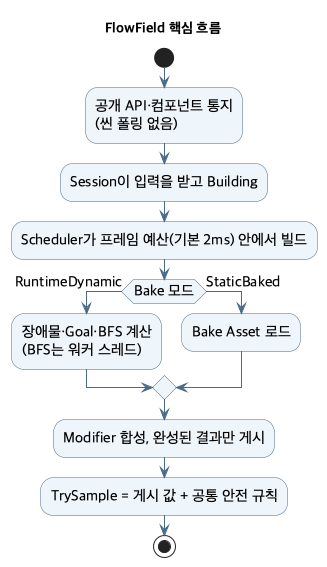
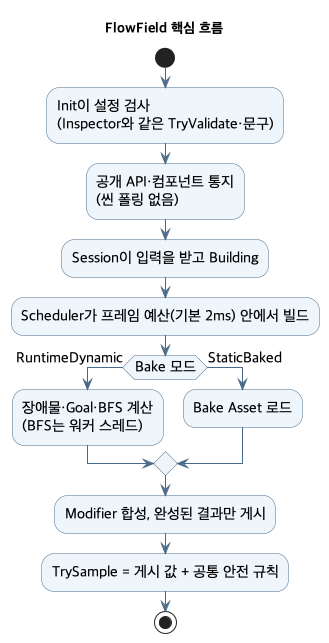
README·TechnicalNotes와 PlantUML 3개를 Session 소유 불확실 영역과 한 경로 검사에 맞추고 PNG를 다시 렌더링함

Changed region(s): [[0.0306, 0.03, 0.9786, 0.9894]]

diff --git a/ToyProject/Assets/_FlowField/Docs/TechnicalNotes.md b/ToyProject/Assets/_FlowField/Docs/TechnicalNotes.md
@@ -110,11 +110,11 @@
 ## StaticBaked
 
 - Surface2D는 `FlowFieldSurfaceBakeData`, Volume3D는 `FlowFieldVolumeBakeData`이며 v6만 허용합니다. 둘 다 `FlowFieldBakeAsset`을 상속해 포맷 버전, Revision, 내용 세대(Inspector 편집과 다시 읽기를 알림)를 같은 방식으로 관리합니다.
-- Editor Bake는 두 모드가 같은 실행 코드(`BakeRun`)와 저장 코드(`SaveBakeAsset`)를 씁니다. 입력이 바뀌면 그 프레임에 멈추고 기존 Asset을 유지하며, 저장은 Undo 한 묶음입니다.
+- Editor Bake는 두 모드가 같은 실행 코드(`BakeRun`), 입력 검사, 저장 코드(`SaveBakeAsset`)를 쓰고, 모드마다 다른 이름·파일 접미사·참조 속성은 `BakeTarget`에 둡니다. Bake 입력 해시가 시작 때와 달라지면 그 프레임에 멈추고 기존 Asset을 유지하며, 저장은 Undo 한 묶음입니다.
 - Volume은 방향·속도·탈출 벡터를 저장하지 않고 NextCell과 면 인덱스(`_escapeFaces`)에서 재구성합니다. Surface는 배열을 `FlowFieldBakeBlob`으로 `byte[]`에 비트 그대로 저장합니다.
 - 저장에 실패하면 기존 Asset의 내용, Revision, GUID를 유지합니다.
 - 런타임은 Asset에 구운 Goal을 그대로 씁니다. Init은 Goal Transform 위치가 구운 Goal과 같은지 검사합니다.
-- Bake는 연결된 Asset이 있으면 그 경로에 씁니다. 참조가 빈 Manager의 Bake 대상은 씬 옆, 씬 이름의 폴더에 씬 GUID와 Manager ID로 만든 고정 경로(`<씬 폴더>/<씬 이름>/<씬GUID>_<ManagerID>_<이름>_<StaticBake|VolumeBake>.asset`)이며, 그 경로의 같은 형식 Asset은 이 Manager의 것으로 보고 덮어씁니다. Asset을 새로 만든 Bake가 실패하면 그때 만든 Asset과 폴더를 지웁니다. 고정 경로는 씬의 위치·이름과 Manager 이름을 따르므로, 씬을 옮기거나 이름을 바꾼 뒤 참조가 빈 채로 Bake하면 새 Asset을 만들고 예전 Asset은 그대로 둡니다.
+- Bake는 연결된 Asset이 있으면 그 경로에 씁니다. 참조가 빈 Manager의 Bake 대상은 씬 옆, 씬 이름의 폴더에 씬 GUID와 Manager ID로 만든 고정 경로(`<씬 폴더>/<씬 이름>/<씬GUID>_<ManagerID>_<이름>_<SurfaceBake|VolumeBake>.asset`)이며, 그 경로의 같은 형식 Asset은 이 Manager의 것으로 보고 덮어씁니다. Asset을 새로 만든 Bake가 실패하면 그때 만든 Asset과 폴더를 지웁니다. 고정 경로는 씬의 위치·이름과 Manager 이름을 따르므로, 씬을 옮기거나 이름을 바꾼 뒤 참조가 빈 채로 Bake하면 새 Asset을 만들고 예전 Asset은 그대로 둡니다.
 
 ## Editor 표시
 
@@ -127,10 +127,10 @@
 
 ## UML 갱신
 
-원본은 `Docs/*.puml`이고, 렌더링한 PNG를 `Docs/Images`에 저장해 문서에 넣습니다. Graphviz 없이 PlantUML 1.2024.6으로 렌더링합니다. Docs 폴더에서 실행합니다.
+원본은 `Docs/*.puml`이고, 렌더링한 PNG를 `Docs/Images`에 저장해 문서에 넣습니다. Graphviz 없이 PlantUML 1.2024.3으로 렌더링합니다. Docs 폴더에서 실행합니다.
 
 ```sh
-java -Djava.awt.headless=true -Djava.io.tmpdir="$TMPDIR" -jar plantuml-1.2024.6.jar \
+java -Djava.awt.headless=true -Djava.io.tmpdir="$TMPDIR" -jar plantuml.jar \
   -tpng -charset UTF-8 -o Images \
   flowfield-uml.puml flowfield-structure.puml flowfield-pipeline.puml
 ```

diff --git a/ToyProject/Assets/_FlowField/README.md b/ToyProject/Assets/_FlowField/README.md
@@ -87,6 +87,7 @@ public sealed class FlowFieldReadmeMover : MonoBehaviour
 - **통지 방식:** FlowField는 씬을 폴링하지 않습니다. 변경은 위 API와 FlowField 컴포넌트(`FlowFieldDynamicObstacle`, `FlowFieldGoalTarget`, Modifier)의 통지로만 들어옵니다. 알리지 않은 이동은 반영되지 않습니다. 통지를 받은 그 프레임부터 영향 영역은 새 결과가 게시될 때까지 속도 0입니다. 장애물 조회는 Trigger를 무시합니다.
 - **Goal Transform:** Manager의 Goal Transform은 Init과 Bake 때 한 번 읽는 초기 Goal입니다. 이후 이동은 `SetGoal()`이나 `FlowFieldGoalTarget`으로 알립니다.
 - **설정 변경:** Play 중 Inspector에서 설정을 바꾸면 바로 다시 빌드합니다. 값이 잘못되면 두 모드 모두 Fault가 됩니다.
+- **설정 검사:** Init과 Inspector·Scene View는 같은 검사를 같은 문구로 합니다. 잘못된 설정이면 `Init()`은 처음 걸린 이유를 메시지로 담은 `InvalidOperationException`을 던지고, Inspector는 그 문구를 그대로 보여 줍니다.
 - **Modifier:** 영향 영역 Collider(Trigger, MeshCollider는 Convex)에 `FlowFieldSpeedModifier`나 `FlowFieldNoiseModifier`를 두고 Manager를 지정합니다. 같은 Manager 안에서는 Priority를 서로 다르게 두며, 낮은 값부터 합성합니다.
 - **Fault 복구:** 원인을 고친 뒤 `RequestRebuild()`를 부릅니다. Modifier 자체의 Fault는 Modifier를 껐다가 `Release()` → 값 수정 → `Init()` 순서로 풉니다. 직접 구현한 Modifier 안에서 쓸 수 있는 호출은 TechnicalNotes에 있습니다.
 
